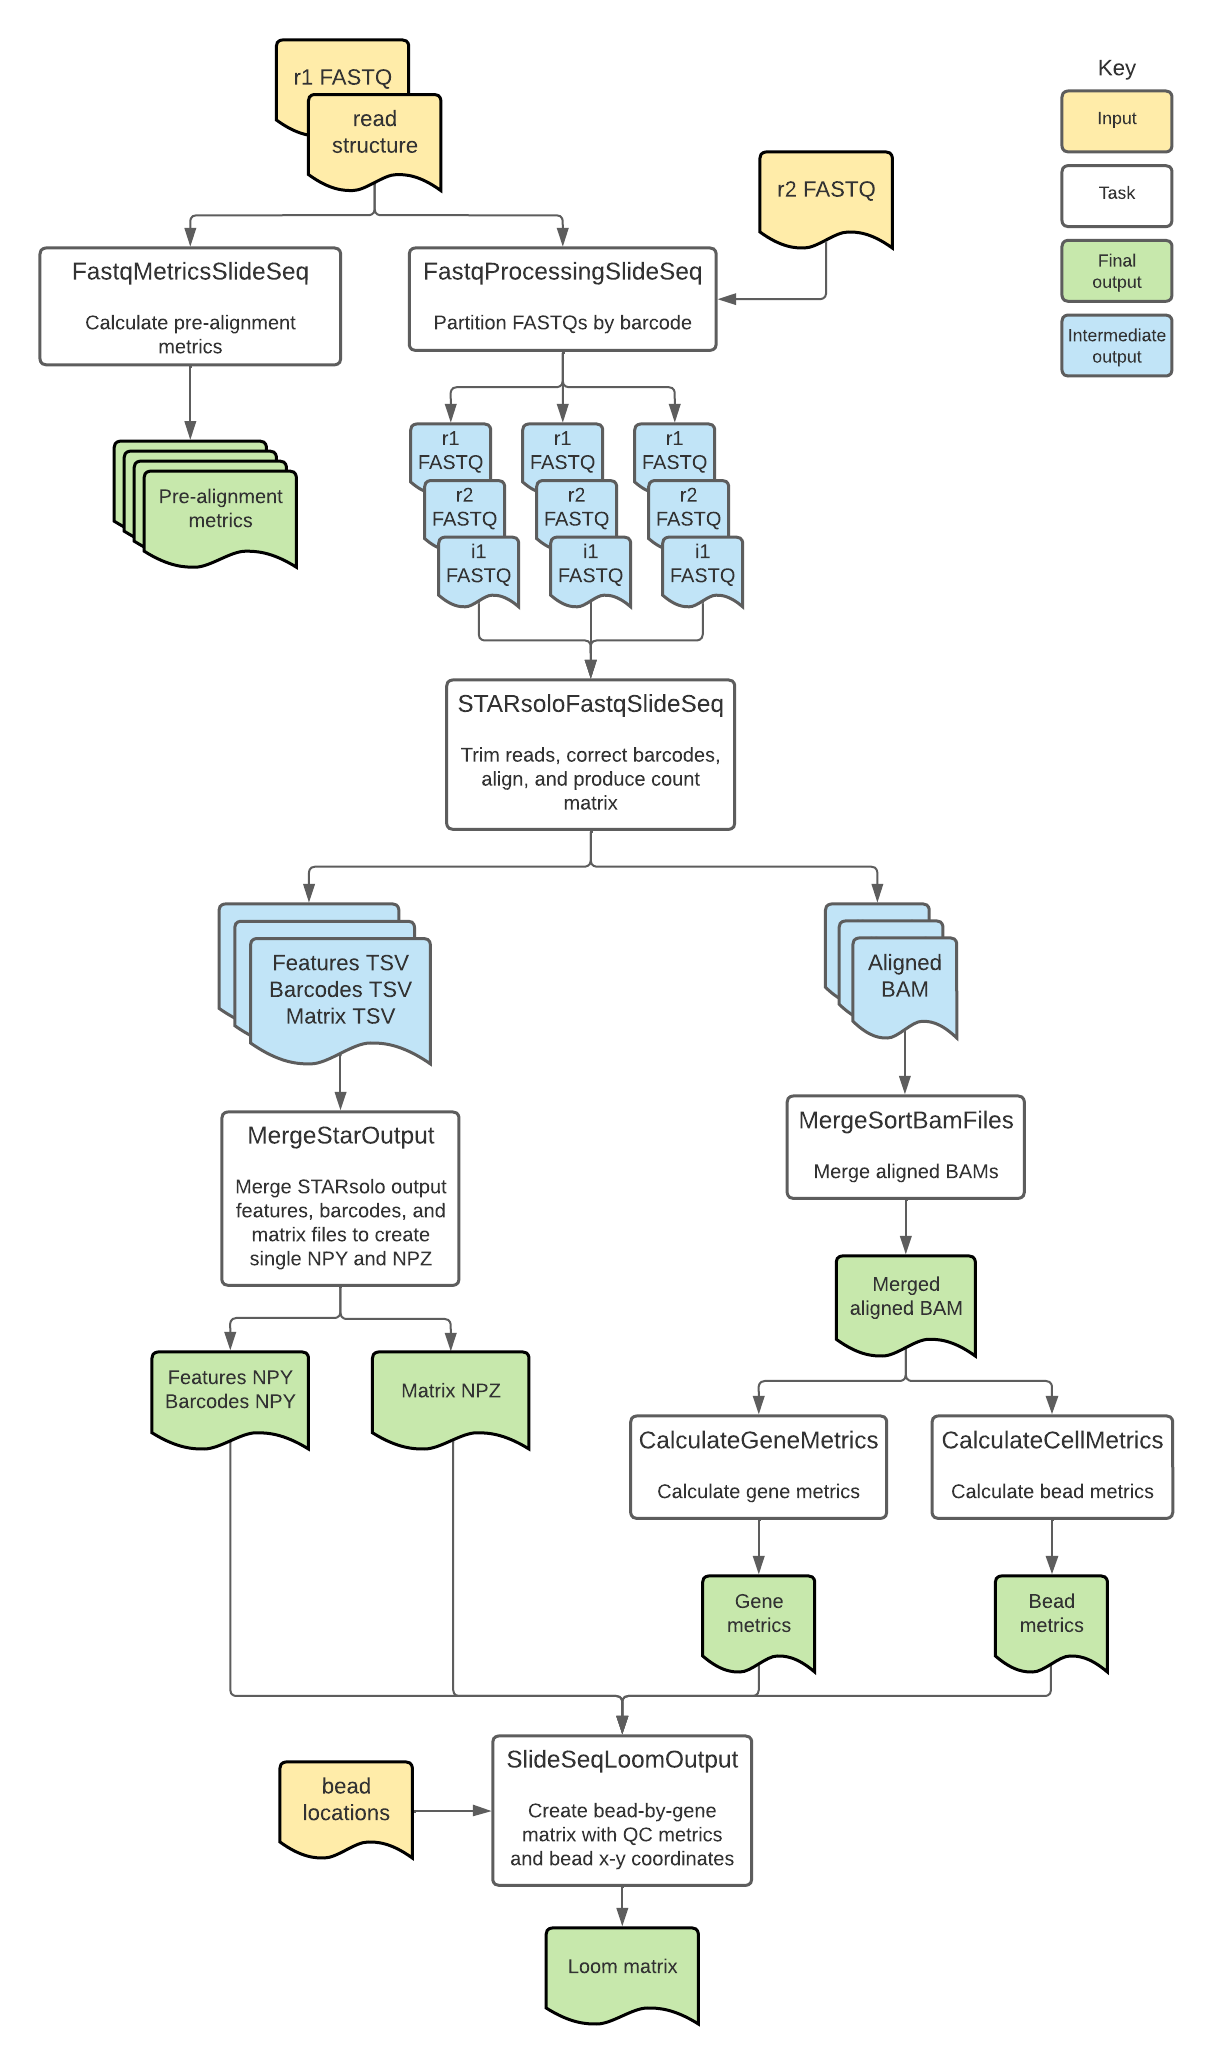
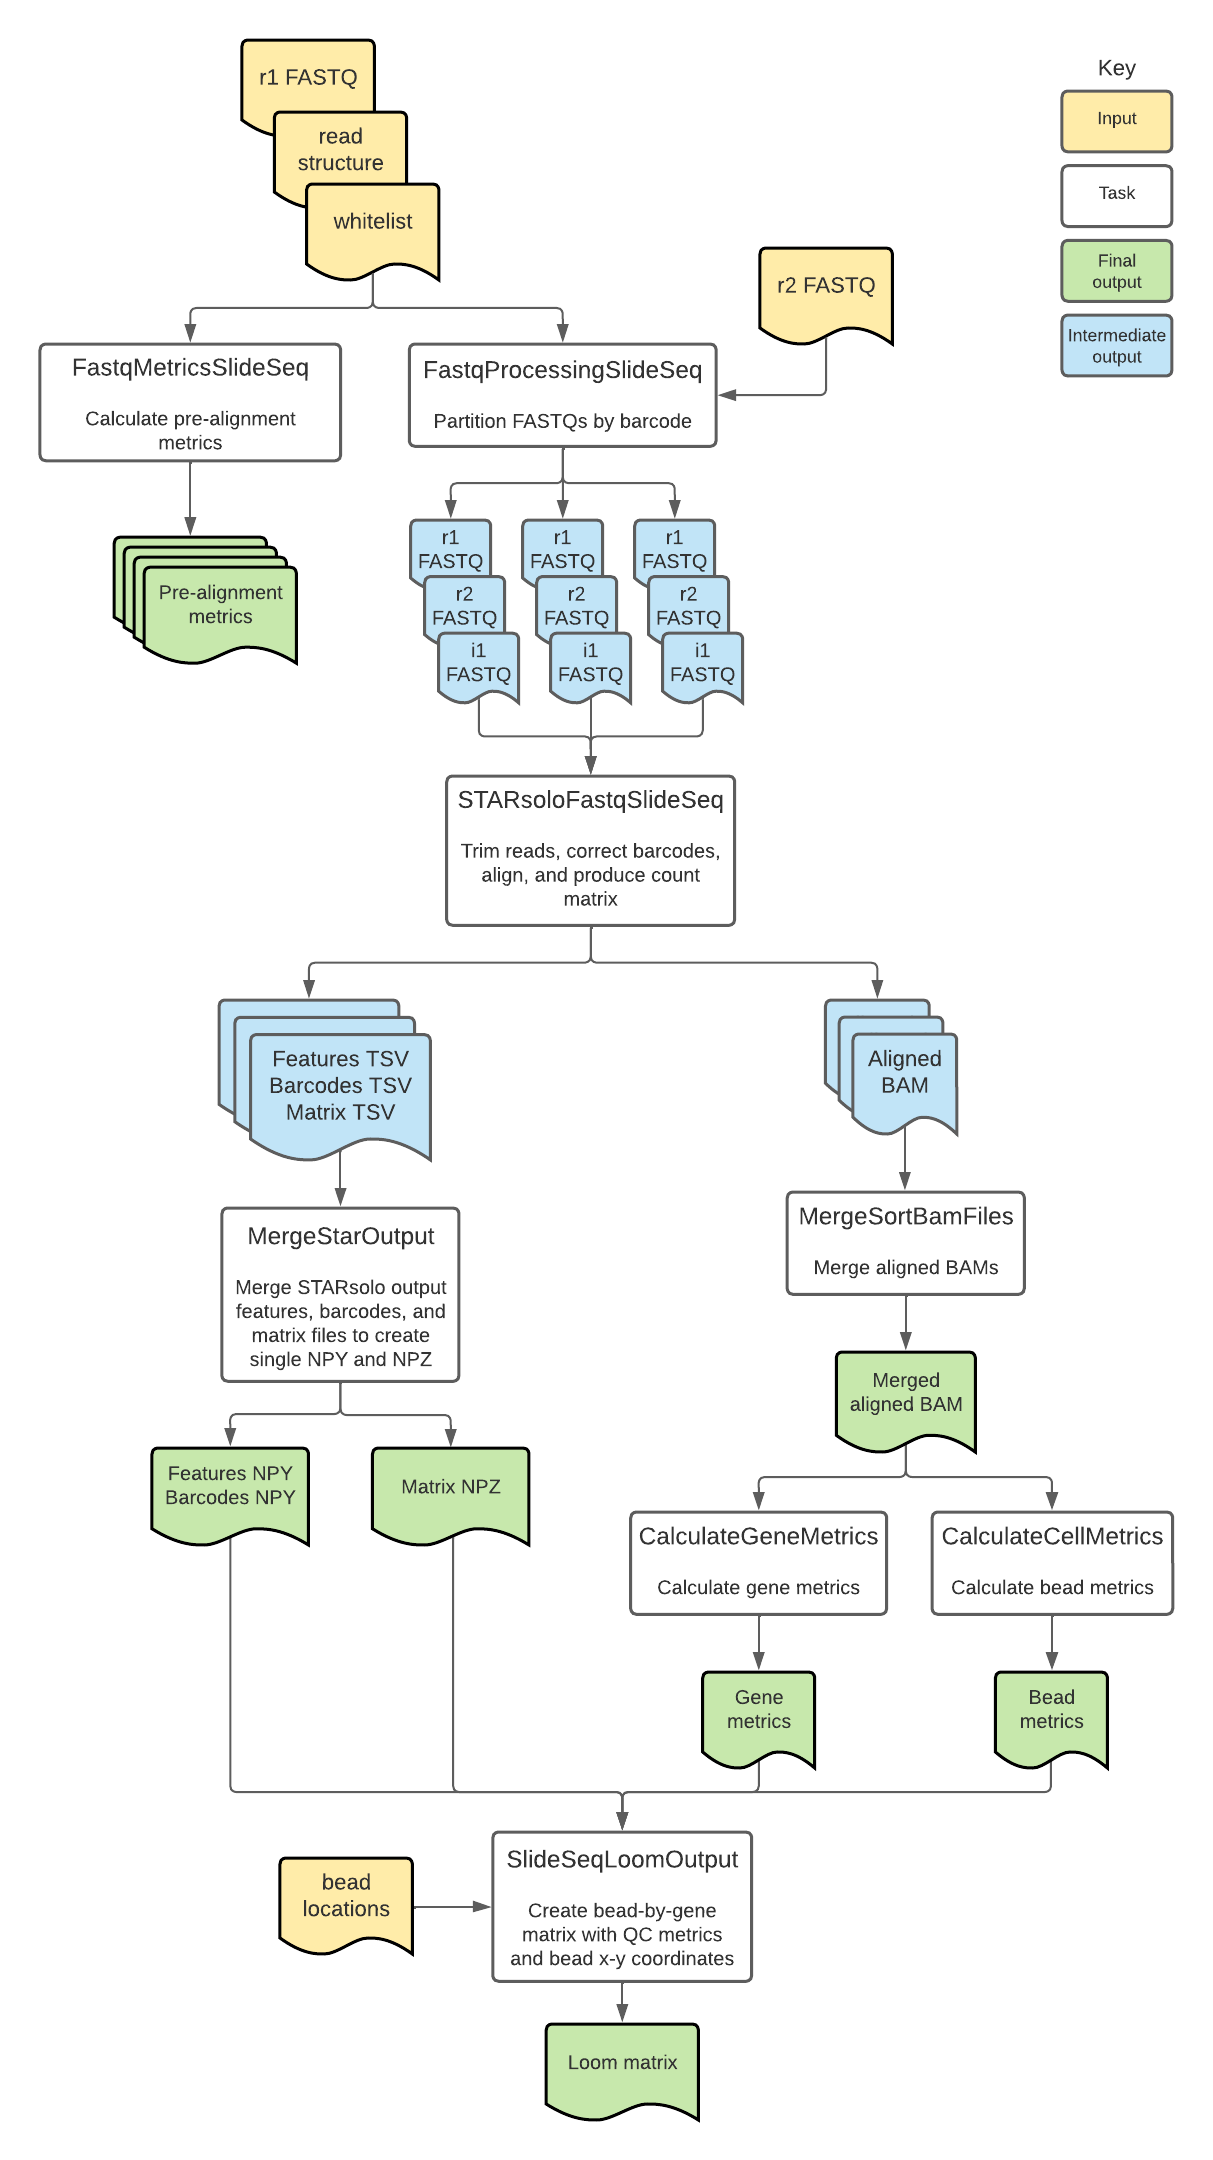
Updated README and diagram

diff --git a/website/docs/Pipelines/SlideSeq_Pipeline/README.md b/website/docs/Pipelines/SlideSeq_Pipeline/README.md
@@ -6,7 +6,7 @@ sidebar_position: 1
 
 | Pipeline Version | Date Updated | Documentation Author | Questions or Feedback |
 | :----: | :---: | :----: | :--------------: |
-| [SlideSeq v1.0.0](LINK) | October, 2022 | Elizabeth Kiernan & Kaylee Mathews | Please file GitHub issues in warp or contact [documentation authors](mailto:warp-pipelines-help@broadinstitute.org) |
+| [SlideSeq v1.0.0](https://github.com/broadinstitute/warp/releases?q=slideseq&expanded=true) | October, 2022 | Elizabeth Kiernan & Kaylee Mathews | Please file GitHub issues in warp or contact [documentation authors](mailto:warp-pipelines-help@broadinstitute.org) |
 
 ![SlideSeq_diagram](./slide-seq_diagram.png)
 
@@ -16,7 +16,7 @@ The [SlideSeq workflow](https://github.com/broadinstitute/warp/blob/master/pipel
 
 Overall, the workflow corrects bead barcodes, aligns reads to the genome, generates a count matrix, calculates summary metrics for genes and beads, and returns read outputs in BAM format. Additionally, it returns bead and gene counts as well as bead coordinates in NumPy matrix and Loom file formats.
 
-<!--- add comment about validation of the pipeline --->
+SlideSeq has been validated for analyzing mouse datasets generated with the Slide-seq assay. Learn more in the [validation section](#validation-against-on-prem-pipeline).
 
 <!--- tip for methods section --->
 
@@ -28,8 +28,8 @@ The following table provides a quick glance at the SlideSeq pipeline features:
 | Assay type | Slide-seq | [Rodriques et al. 2019](https://www.science.org/doi/10.1126/science.aaw1219)
 | Overall workflow | Quality control and transcriptome quantification module | Code available from [GitHub](https://github.com/broadinstitute/warp/blob/master/pipelines/skylab/slide_seq/SlideSeq.wdl) |
 | Workflow language | WDL 1.0 | [openWDL](https://github.com/openwdl/wdl) |
-| Genomic Reference Sequence | V27 (GRCh38.p10) human genome primary sequence and M23 (GRCm38.p6) mouse genome primary sequence | GENCODE [human reference files](https://www.gencodegenes.org/human/release_27.html) and [mouse reference files](https://www.gencodegenes.org/mouse/release_M23.html) |
-| Transcriptomic reference annotation | Modified V27 GENCODE human transcriptome and M23 mouse transcriptome built with the [BuildIndices workflow](https://github.com/broadinstitute/warp/blob/master/pipelines/skylab/build_indices/BuildIndices.wdl) | GENCODE [human GTF](https://ftp.ebi.ac.uk/pub/databases/gencode/Gencode_human/release_27/gencode.v27.annotation.gff3.gz) and [mouse GTF](https://ftp.ebi.ac.uk/pub/databases/gencode/Gencode_mouse/release_M23/gencode.vM23.annotation.gff3.gz); modified versions available in Broad’s [public reference bucket](https://console.cloud.google.com/storage/browser/gcp-public-data--broad-references?pageState=(%22StorageObjectListTable%22:(%22f%22:%22%255B%255D%22))&prefix=&forceOnObjectsSortingFiltering=false) | 
+| Genomic Reference Sequence | M23 (GRCm38.p6) mouse genome primary sequence | GENCODE [mouse reference files](https://www.gencodegenes.org/mouse/release_M23.html) |
+| Transcriptomic reference annotation | M23 mouse transcriptome built with the [BuildIndices workflow](https://github.com/broadinstitute/warp/blob/master/pipelines/skylab/build_indices/BuildIndices.wdl) | GENCODE [mouse GTF](https://ftp.ebi.ac.uk/pub/databases/gencode/Gencode_mouse/release_M23/gencode.vM23.annotation.gff3.gz); modified version available in Broad’s [public reference bucket](https://console.cloud.google.com/storage/browser/gcp-public-data--broad-references?pageState=(%22StorageObjectListTable%22:(%22f%22:%22%255B%255D%22))&prefix=&forceOnObjectsSortingFiltering=false) | 
 | Aligner and transcript quantification | STARsolo | [Kaminow et al. 2021](https://www.biorxiv.org/content/10.1101/2021.05.05.442755v1) |
 | Data input file format | File format in which sequencing data is provided | [FASTQ](https://academic.oup.com/nar/article/38/6/1767/3112533) |
 | Data output file format | File formats in which SlideSeq output is provided | [BAM](http://samtools.github.io/hts-specs/), Python NumPy arrays, and Loom (generated with [Loompy)](http://loompy.org/) |
@@ -50,7 +50,7 @@ The SlideSeq pipeline can be deployed using [Cromwell](https://cromwell.readthed
 
 ### Inputs
 
-The SlideSeq workflow inputs are specified in JSON configuration files. Example configuration files can be found in the [test_inputs](LINK) folder in the WARP repository.
+The SlideSeq workflow inputs are specified in JSON configuration files. Example configuration files can be found in the [test_inputs](https://github.com/broadinstitute/warp/tree/master/pipelines/skylab/slide_seq/test_inputs) folder in the WARP repository.
 
 #### Input descriptions
 
@@ -68,9 +68,9 @@ The SlideSeq workflow inputs are specified in JSON configuration files. Example 
 | count_exons | Optional boolean indicating if the workflow should calculate exon counts; default is set to “false” and produces a Loom file with whole-gene counts; when set to “true” an additional layer of the Loom file is produced with exon counts. | Boolean |
 | bead_locations | Locations (XY coordinates) of the sequenced beads on the puck. | File |
 
-<!---#### Pseudogene handling
+#### Pseudogene handling
 
-The example SlideSeq reference files are created using the [BuildIndices pipeline](https://github.com/broadinstitute/warp/blob/master/pipelines/skylab/build_indices/BuildIndices.wdl). The BuildIndices pipeline modifies a given GTF downloaded from GENCODE to only include biotypes that are listed in a tab separated file ([biotypes.tsv](https://github.com/broadinstitute/warp/blob/develop/dockers/skylab/snss2-build-indices/Biotypes.tsv)). The example references do not include the pseudogene biotype. Learn more about Ensembl biotypes in the [Ensembl overview](https://m.ensembl.org/info/genome/genebuild/biotypes.html). --->
+The example SlideSeq reference files are created using the [BuildIndices pipeline](https://github.com/broadinstitute/warp/blob/master/pipelines/skylab/build_indices/BuildIndices.wdl). The BuildIndices pipeline modifies a given GTF downloaded from GENCODE to only include biotypes that are listed in a tab separated file ([biotypes.tsv](https://github.com/broadinstitute/warp/blob/develop/dockers/skylab/snss2-build-indices/Biotypes.tsv)). The example references do not include the pseudogene biotype. Learn more about Ensembl biotypes in the [Ensembl overview](https://m.ensembl.org/info/genome/genebuild/biotypes.html).
 
 <!--- #### Sample inputs for analyses in a Terra Workspace --->
 
@@ -98,7 +98,7 @@ To see specific tool parameters, select the task WDL link in the table; then fin
 | [Merge.MergeSortBamFiles (alias= MergeBam)](https://github.com/broadinstitute/warp/blob/master/tasks/skylab/MergeSortBam.wdl) | MergeSamFiles | [Picard](https://broadinstitute.github.io/picard/) | Merges the array of BAM files into a single BAM and sorts in coordinate order. |
 | [Metrics.CalculateGeneMetrics (alias = GeneMetrics)](https://github.com/broadinstitute/warp/blob/master/tasks/skylab/Metrics.wdl) | TagSort | [sctools](https://github.com/HumanCellAtlas/sctools) | Sorts the BAM file by gene using the bead barcode (CB), molecule barcode (UB), and gene ID (GX) tags and computes gene metrics. | 
 | [Metrics.CalculateCellMetrics (alias = CellMetrics)](https://github.com/broadinstitute/warp/blob/master/tasks/skylab/Metrics.wdl) | TagSort | [sctools](https://github.com/HumanCellAtlas/sctools) | Sorts the BAM file by bead using the bead barcode (CB), molecule barcode (UB), and gene ID (GX) tags and computes bead metrics. |
-| [StarAlign.MergeStarOutput (alias = MergeStarOutputs)](https://github.com/broadinstitute/warp/blob/master/tasks/skylab/StarAlign.wdl) | create-npz-output.py | [Python 3](https://www.python.org/) | Creates a compressed raw NPY or NPZ file containing the STARsolo output features (NPY), barcodes (NPZ) and counts (NPZ). When `count_exons` is true, the task is run as `MergeStarOutputsExons`. | 
+| [StarAlign.MergeStarOutput (alias = MergeStarOutputs)](https://github.com/broadinstitute/warp/blob/master/tasks/skylab/StarAlign.wdl) | create-npz-output.py | [Python 3](https://www.python.org/) | Creates a compressed raw NPY or NPZ file containing the STARsolo output features (NPY), barcodes (NPZ) and counts (NPZ). When `count_exons` is true, the task is run as `MergeStarOutputsExons` and additional NPY and NPZ files are output containing exon counts. | 
 | [LoomUtils.SlideSeqLoomOutput (alias = SlideseqLoomGeneration)](https://github.com/broadinstitute/warp/blob/master/tasks/skylab/LoomUtils.wdl) | create_loom_slide_seq.py | [Python 3](https://www.python.org/) | Merges the gene counts, bead metrics, and gene metrics data into a Loom formatted bead-by-gene matrix. By default, the Loom contains whole-gene counts. When `count_exons` is true, the task is run as `SlideseqLoomGenerationWithExons` and an additional layer is added to the Loom file containing exon counts. |
 
 #### 1. Calculating prealignment metrics
@@ -112,7 +112,7 @@ Although the function of the bead barcodes is to identify the spatial location o
 
 The [FastqProcessingSlidSeq](https://github.com/broadinstitute/warp/blob/master/tasks/skylab/FastqProcessing.wdl) task uses [sctools](https://github.com/HumanCellAtlas/sctools) to evaluate barcode errors by comparing the Read 1 FASTQ sequences against a whitelist of barcodes created by sequencing prior to the mRNA transfer and library preparation steps of the [Slide-Seq](https://www.science.org/doi/10.1126/science.aaw1219) protocol.
 
-Barcodes that are more than 1 edit distance ([Hamming distance](https://www.ncbi.nlm.nih.gov/pmc/articles/PMC5410656/)) from any of the barcode sequences in the whitelist are filtered at this step and not included in the output. However, the barcodes are corrected by the [STARsoloFastqSlideSeq](https://github.com/broadinstitute/warp/blob/master/tasks/skylab/StarAlign.wdl) task.
+Barcodes that are more than two edit distance ([Hamming distance](https://www.ncbi.nlm.nih.gov/pmc/articles/PMC5410656/)) from any of the barcode sequences in the whitelist are filtered at this step and not included in the output. However, the barcodes are corrected by the [STARsoloFastqSlideSeq](https://github.com/broadinstitute/warp/blob/master/tasks/skylab/StarAlign.wdl) task.
 
 **Barcode trimming**
 
@@ -128,7 +128,7 @@ For faster processing of large datasets, the task divides the input array of FAS
 
 The [STARsoloFastqSlideSeq](https://github.com/broadinstitute/warp/blob/master/tasks/skylab/StarAlign.wdl) task uses the STAR aligner to evaluate barcode errors by comparing the Read 1 FASTQ sequences against a whitelist of barcodes created by sequencing prior to the mRNA transfer and library preparation steps of the [Slide-seq](https://www.science.org/doi/10.1126/science.aaw1219) protocol.
 
-Corrected barcodes are those that fall within one edit distance ([Hamming distance](https://www.ncbi.nlm.nih.gov/pmc/articles/PMC5410656/)) of one of the barcode sequences in the whitelist. Uncorrectable barcodes (with more than one mismatch) are filtered out by the [FastqProcessingSlidSeq](https://github.com/broadinstitute/warp/blob/master/tasks/skylab/FastqProcessing.wdl) task.
+Corrected barcodes are those that fall within two edit distance ([Hamming distance](https://www.ncbi.nlm.nih.gov/pmc/articles/PMC5410656/)) of one of the barcode sequences in the whitelist. Uncorrectable barcodes (with more than two mismatches) are filtered out by the [FastqProcessingSlidSeq](https://github.com/broadinstitute/warp/blob/master/tasks/skylab/FastqProcessing.wdl) task.
 
 **Read trimming**
 
@@ -206,11 +206,13 @@ The following table lists the output files produced from the pipeline. For sampl
 | barcode_distribution | --- | Metric file containing the distribution of reads per bead barcode that were calculated prior to alignment. | File |
 | umi_distribution | --- | Metric file containing the distribution of reads per UMI that were calculated prior to alignment. | File |
 | numReads_perCell | --- | Metric file containing the number of reads per barcode that were calculated prior to alignment. | File |
-| numReads_perUMI | --- | Metric file containing the number of reads per UMI that were calculated prior to alignment. |
+| numReads_perUMI | --- | Metric file containing the number of reads per UMI that were calculated prior to alignment. | File | 
 
 The Loom matrix is the default output. See the [create_loom_slide_seq.py](https://github.com/broadinstitute/warp/blob/master/dockers/skylab/loom-output/create_loom_optimus.py) script for the detailed code. This matrix contains the unnormalized (unfiltered) count matrices. 
 
-<!--- ## Validation section --->
+## Validation against on-prem pipeline
+
+SlideSeq has been validated for processing mouse spatial transcriptomic data generated with the Slide-seq assay. SlideSeq results are compared to those of an on-prem pipeline using BCL input files and python scripts. See the [validation report](https://docs.google.com/document/d/1cmfG3Y4uGvfJUJZV9MZvgN5Yw6-bFajpS7lonMKxdso/edit?usp=sharing) for more information.
 
 
 ## Versioning
